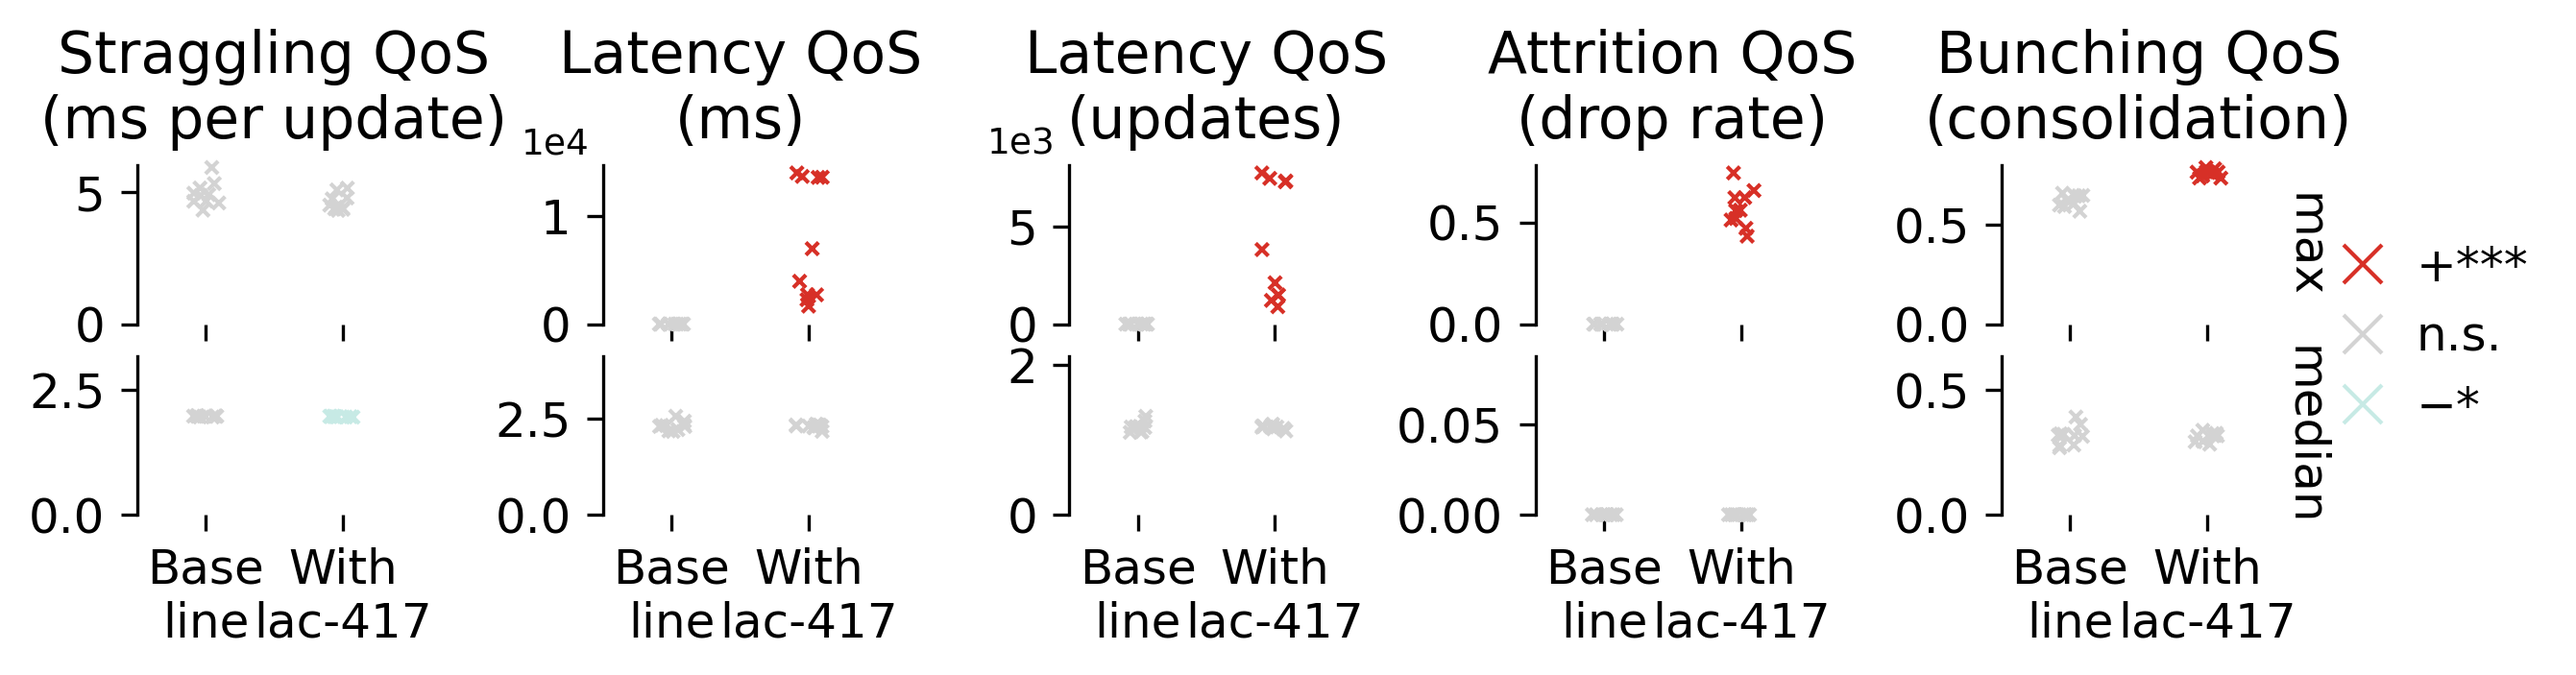
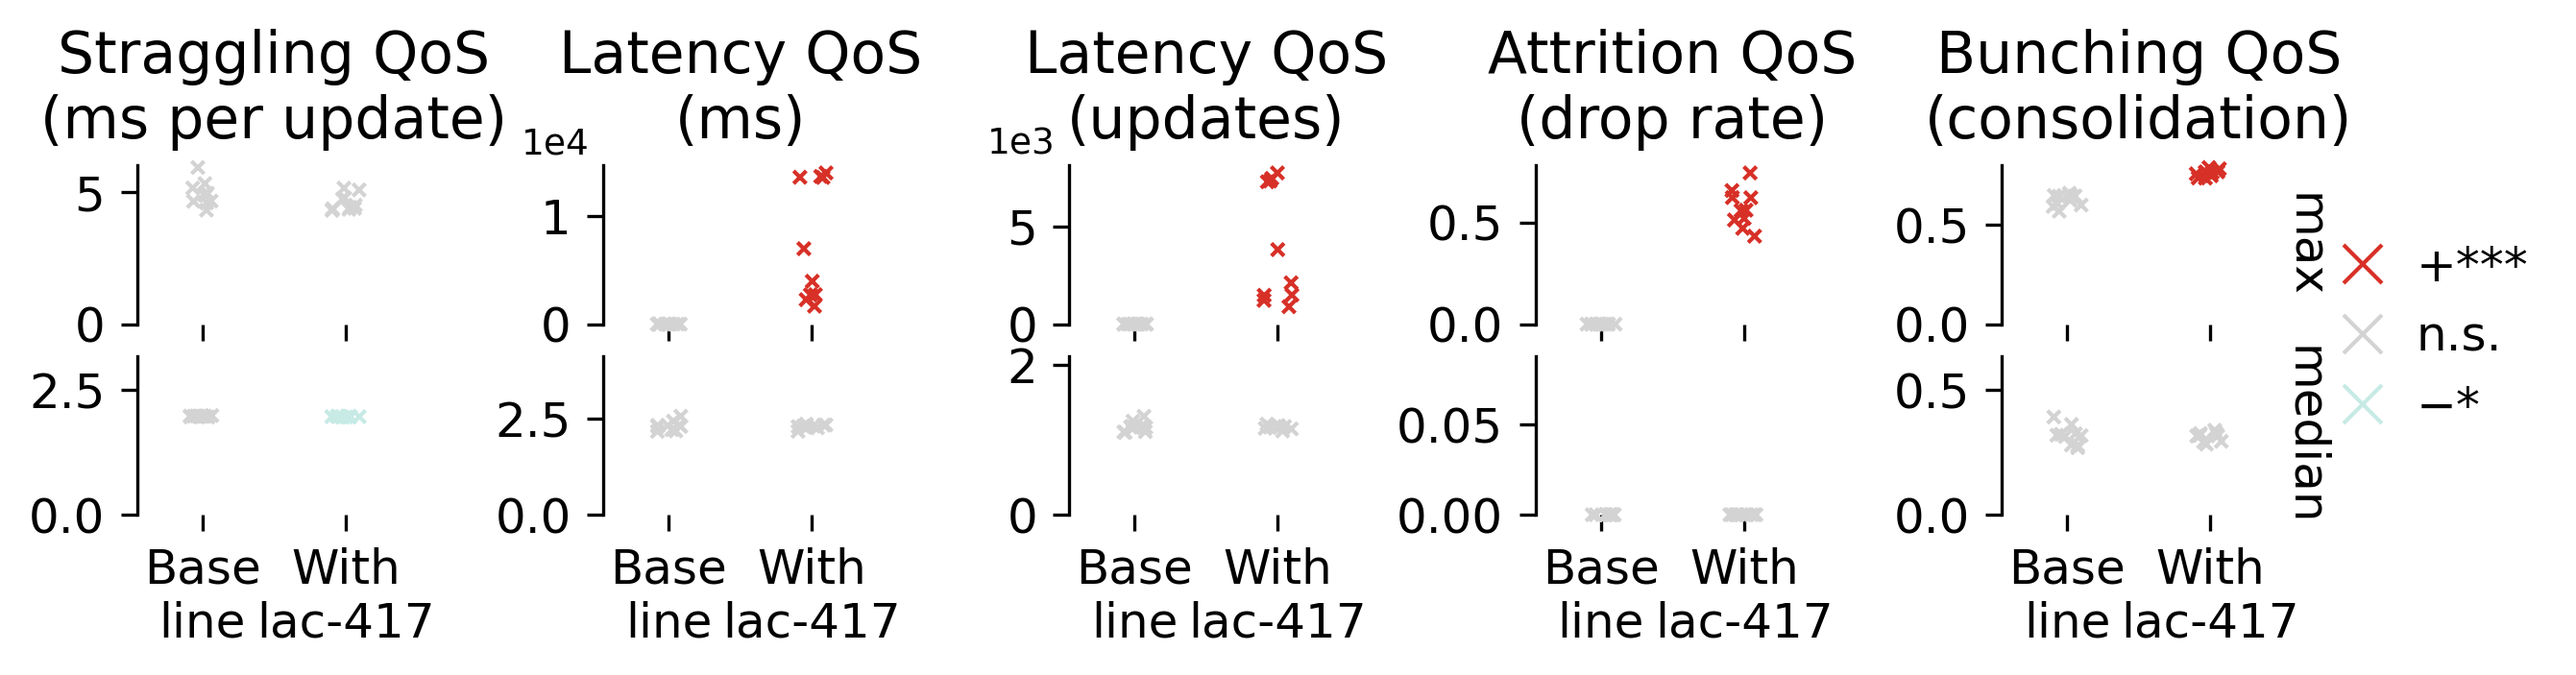
Deploying to bindle-2026-05-16-lac-417.py (widen gap between Base line / With lac-417 tick labels)

diff --git a/bindle/2026-05-16-lac-417.py b/bindle/2026-05-16-lac-417.py
@@ -504,6 +504,9 @@ def _(
             _ax.yaxis.get_offset_text().set_x(-0.3)
             _ax.yaxis.get_offset_text().set_y(0.5)
             _ax.yaxis.get_offset_text().set_fontsize(9)
+            # widen the gap between the "Base line"/"With lac-417" x-tick
+            # labels, which otherwise crowd together at this panel's width
+            _ax.margins(x=0.3)
         # matplotlib auto-raises a facet's title at draw time to dodge its
         # offset text (columns without offset text keep their titles at the
         # default position, creating a ragged title row); passing an
